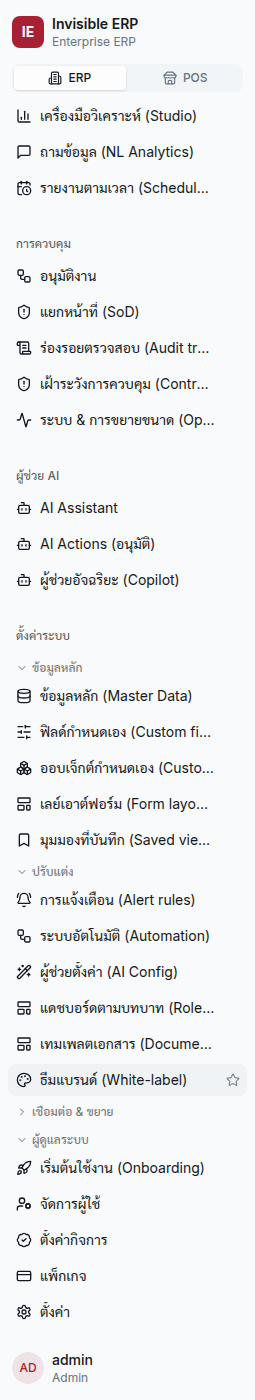
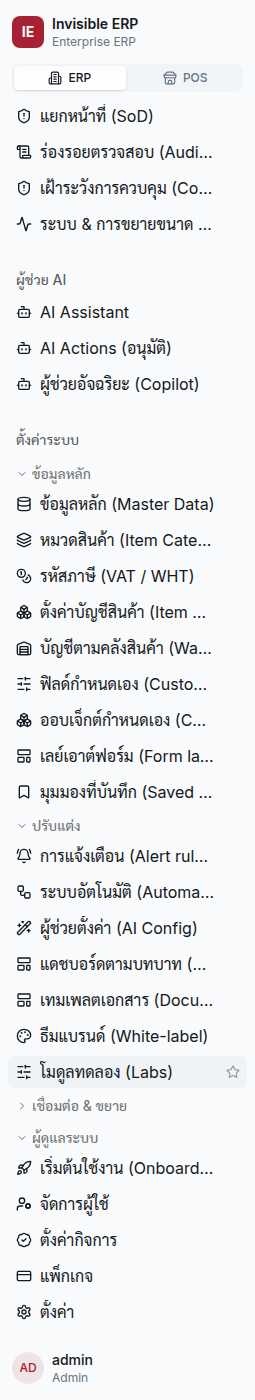
ปรับ UI หน้ารับของ: grid คอลัมน์ตรงแนว + stat chips มือถือ + เทสต์กดปุ่มจริงบนมือถือ
/receiving blind-count form: desktop gets an aligned column grid with a header
row (สั่ง/รับแล้ว/ค้างรับ/จำนวนรับจริง, right-aligned tabular numerals); the phone
layout labels every figure as a chip so nothing needs the header; fully-received
lines show a ✓ badge instead of a disabled input; count inputs are taller on
touch (h-11); the confirm button is full-width on phones with a live "นับแล้ว
n จาก m รายการ" progress hint. Summary dialog rows restructured (name+verdict /
figures / actions on separate rows — nothing competes for width) and every
dialog action is full-width on phones.

New receiving.mobile.spec.ts (iPhone 13 project): drives the entire flow with
REAL taps — Playwright actionability fails a click when another element covers
the button (the reported "ปุ่มซ้อนกันกดไม่ได้" bug class) — and asserts NO
horizontal page overflow at every stage (an overflow shifts fixed dialogs
off-screen on phones, per the /shop PR #509 lesson), plus the dialog's bounding
box stays inside the viewport. receiving-shots.capture.spec.ts added as an
on-demand screenshot tool (testIgnore'd from CI, same pattern as
sidebar.capture.spec.ts).

Presentation-only + tests — no behaviour/endpoint/control change, so no doc
impact (manual steps unchanged). Web e2e 32/32 locally (desktop + mobile);
web build + both ratchets green (use-client 253 unchanged).

Claude-Session: https://claude.ai/code/session_019hRrCJv4YTdV2WBmSd4wHm

Changed region(s): [[0.0549, 0.0614, 0.851, 0.9521], [0.9059, 0.7679, 0.9333, 0.7986]]

diff --git a/apps/web/e2e/receiving.mobile.spec.ts b/apps/web/e2e/receiving.mobile.spec.ts
@@ -1,0 +1,141 @@
+import { test, expect, type Page } from '@playwright/test';
+
+/**
+ * /receiving at PHONE viewport (iPhone 13, mobile-iphone project) — REAL-TAP regression for the
+ * blind-count receiving flow. Every interaction uses ordinary Playwright clicks, so actionability is
+ * enforced: a button covered by another element (the "ปุ่มซ้อนกันกดไม่ได้" bug class) fails the click
+ * instead of silently passing. After every stage we also assert there is NO horizontal page overflow —
+ * on mobile an overflow widens the layout viewport and shifts position:fixed surfaces (dialogs/sheets)
+ * off-screen, which is the usual root cause of "the button is there but taps don't land" (see the
+ * /shop PR #509 lesson in CLAUDE.md).
+ */
+
+const ME = { username: 'warehouse', role: 'Admin', customer_name: 'AMBER', permissions: [] };
+
+const POS = {
+  purchase_orders: [
+    { PO_No: 'PO-M-APPR', PO_Date: '2026-07-03', Supplier_Name: 'ACME Foods', Total_Amount: 460, Status: 'Approved' },
+  ],
+};
+
+const RECEIVE_LINES = {
+  po_no: 'PO-M-APPR', status: 'Approved', vendor_name: 'ACME Foods', over_receipt_weight_pct: 5, claim_window_hours: 24,
+  lines: [
+    { item_id: 'RICE', item_description: 'ข้าวหอมมะลิถุงใหญ่พิเศษตราดอกบัวคู่', uom: 'EA', order_qty: 10, received_qty: 0, remaining_qty: 10, is_weight: false, closed: false },
+    { item_id: 'BEEF', item_description: 'เนื้อวัววากิวนำเข้า', uom: 'kg', order_qty: 5, received_qty: 0, remaining_qty: 5, is_weight: true, closed: false },
+    { item_id: 'OIL', item_description: 'น้ำมันพืช', uom: 'EA', order_qty: 3, received_qty: 3, remaining_qty: 0, is_weight: false, closed: false },
+  ],
+};
+
+async function boot(page: Page) {
+  await page.addInitScript(() => { document.cookie = 'ierp_csrf=e2e; path=/'; });
+  let grBody: any = null;
+  let claimBody: any = null;
+  let closedShortPo: string | null = null;
+  await page.route('**/api/**', async (route) => {
+    const req = route.request();
+    const url = req.url();
+    const json = (body: unknown) => route.fulfill({ status: 200, contentType: 'application/json', body: JSON.stringify(body) });
+    if (url.includes('/api/auth/me')) return json(ME);
+    if (url.includes('/api/modules/effective')) return json({ modules: [], disabled: [] });
+    if (url.includes('/api/user-prefs')) return json({ favourites: [], nav: {} });
+    if (url.includes('/receive-lines')) return json(RECEIVE_LINES);
+    const mc = url.match(/\/api\/procurement\/pos\/([^/]+)\/close-short/);
+    if (mc) { closedShortPo = decodeURIComponent(mc[1]); return json({ po_no: closedShortPo, po_status: 'Closed', short_lines: [{ item_id: 'RICE', short_qty: 4 }] }); }
+    if (url.includes('/api/claims/gr') && req.method() === 'POST') {
+      claimBody = req.postDataJSON();
+      return json({ claim_no: 'GRC-M-001', status: 'Open', image_attachment_id: null });
+    }
+    if (url.includes('/api/procurement/grs') && req.method() === 'POST') {
+      grBody = req.postDataJSON();
+      return json({
+        gr_no: 'GR-M-001', po_no: grBody.po_no, po_status: 'Received', lines: grBody.items.length,
+        summary: {
+          claim_window_hours: 24, claim_deadline: new Date(Date.now() + 24 * 3600_000).toISOString(),
+          lines: [
+            { item_id: 'RICE', item_description: 'ข้าวหอมมะลิถุงใหญ่พิเศษตราดอกบัวคู่', uom: 'EA', order_qty: 10, received_now: 6, received_total: 6, shortage_qty: 4, over_qty: 0, is_weight: false },
+            { item_id: 'BEEF', item_description: 'เนื้อวัววากิวนำเข้า', uom: 'kg', order_qty: 5, received_now: 5.2, received_total: 5.2, shortage_qty: 0, over_qty: 0.2, is_weight: true },
+            { item_id: 'OIL', item_description: 'น้ำมันพืช', uom: 'EA', order_qty: 3, received_now: 0, received_total: 3, shortage_qty: 0, over_qty: 0, is_weight: false },
+          ],
+        },
+      });
+    }
+    if (url.includes('/api/procurement/grs')) return json({ grs: [], count: 0 });
+    if (url.includes('/api/inventory/purchase-orders')) return json(POS);
+    return json({});
+  });
+  (page as any).__getGrBody = () => grBody;
+  (page as any).__getClaimBody = () => claimBody;
+  (page as any).__getClosedShortPo = () => closedShortPo;
+}
+
+// The layout viewport must never exceed the visual viewport — a horizontal overflow anywhere on the page
+// shifts fixed elements and makes buttons unclickable on phones.
+async function assertNoHorizontalOverflow(page: Page, stage: string) {
+  const overflow = await page.evaluate(() => document.documentElement.scrollWidth - document.documentElement.clientWidth);
+  expect(overflow, `horizontal overflow at stage: ${stage}`).toBeLessThanOrEqual(0);
+}
+
+test('receiving (phone): blind-count flow is fully tappable — no overlap, no horizontal overflow', async ({ page }) => {
+  await boot(page);
+  await page.goto('/receiving');
+  await expect(page.locator('#gr-po')).toBeVisible();
+  await assertNoHorizontalOverflow(page, 'initial load');
+
+  // ① pick the PO (real tap on the Radix select + its option)
+  await page.locator('#gr-po').click();
+  await page.getByRole('option', { name: /PO-M-APPR/ }).click();
+  await expect(page.getByText('ข้าวหอมมะลิถุงใหญ่พิเศษตราดอกบัวคู่')).toBeVisible();
+  await assertNoHorizontalOverflow(page, 'PO lines loaded (incl. a long Thai item name)');
+
+  // ② blind count: inputs start EMPTY; the fully-received line shows ✓ instead of an input
+  const riceInput = page.getByLabel(/จำนวนรับจริง RICE/);
+  await expect(riceInput).toHaveValue('');
+  await expect(page.getByLabel(/จำนวนรับจริง OIL/)).toHaveCount(0); // done line — badge, not input
+  await riceInput.click(); // tap-to-focus must land (not covered)
+  await riceInput.fill('6');
+  const beefInput = page.getByLabel(/จำนวนรับจริง BEEF/);
+  await beefInput.click();
+  await beefInput.fill('5.2');
+  await expect(page.getByText('นับแล้ว 2 จาก 3 รายการ')).toBeVisible();
+
+  // ③ confirm — the primary button must be tappable at the bottom of the form
+  await page.getByRole('button', { name: 'ยืนยันการรับของ' }).click();
+  await expect.poll(() => (page as any).__getGrBody()).toMatchObject({ po_no: 'PO-M-APPR' });
+  const body = await (page as any).__getGrBody();
+  expect(body.items).toEqual([
+    { item_id: 'RICE', received_qty: 6, uom: 'EA' },
+    { item_id: 'BEEF', received_qty: 5.2, uom: 'kg' },
+  ]);
+
+  // ④ summary dialog renders inside the viewport (a page overflow would push the fixed dialog off-screen)
+  const dialog = page.getByRole('dialog');
+  await expect(dialog.getByText('สรุปการรับของ — GR-M-001')).toBeVisible();
+  await expect(dialog.getByText('ขาด 4')).toBeVisible();
+  await expect(dialog.getByText('เกิน 0.2')).toBeVisible();
+  await assertNoHorizontalOverflow(page, 'summary dialog open');
+  const box = await dialog.boundingBox();
+  const vw = page.viewportSize()!.width;
+  expect(box, 'dialog has a bounding box').not.toBeNull();
+  expect(box!.x, 'dialog left edge on-screen').toBeGreaterThanOrEqual(0);
+  expect(box!.x + box!.width, 'dialog right edge on-screen').toBeLessThanOrEqual(vw + 1);
+
+  // ⑤ claim from the shortage line — expand the inline form and file it (real taps throughout)
+  await dialog.getByRole('button', { name: /แจ้งเคลม/ }).first().click();
+  await dialog.getByLabel('จำนวนที่เคลม').fill('2');
+  await dialog.getByLabel(/สาเหตุ/).fill('ของช้ำเสียหาย');
+  await assertNoHorizontalOverflow(page, 'claim form expanded');
+  await dialog.getByRole('button', { name: 'เปิดเรื่องเคลม' }).click();
+  await expect.poll(() => (page as any).__getClaimBody()).toMatchObject({ gr_no: 'GR-M-001', item_id: 'RICE', claim_qty: 2 });
+  await expect(dialog.getByText('เปิดเรื่องเคลม GRC-M-001 แล้ว')).toBeVisible();
+
+  // ⑥ the shortage decision — close the PO short (destructive button must be tappable too)
+  await expect(dialog.getByText('มีของขาดส่ง')).toBeVisible();
+  await dialog.getByRole('button', { name: 'ปิด PO (ไม่รับส่วนที่ขาด)' }).click();
+  await expect.poll(() => (page as any).__getClosedShortPo()).toBe('PO-M-APPR');
+
+  // ⑦ done closes the dialog cleanly
+  await dialog.getByRole('button', { name: 'เสร็จสิ้น' }).click();
+  await expect(page.getByRole('dialog')).toHaveCount(0);
+  await assertNoHorizontalOverflow(page, 'dialog closed');
+});

diff --git a/apps/web/src/app/(internal)/receiving/page.tsx b/apps/web/src/app/(internal)/receiving/page.tsx
@@ -33,6 +33,22 @@ function isReceivable(status: string): boolean {
 // Quantities can be fractional (weight lines) — show up to 3 decimals without trailing noise.
 const fq = (x: number) => (Math.round(Number(x) * 1000) / 1000).toLocaleString('th-TH', { maximumFractionDigits: 3 });
 
+// One quantity figure with its label — a labelled chip on the phone; on sm+ the label can hide because the
+// desktop grid carries a column header instead. tabular-nums keeps the columns visually aligned.
+function QtyStat({ label, value, className = '', labelOnDesktop = false }: { label: string; value: string; className?: string; labelOnDesktop?: boolean }) {
+  // labelOnDesktop keeps the labelled-chip look at every size (summary dialog); without it the label and
+  // chip styling drop away on sm+ where the form grid's column header takes over.
+  const chip = labelOnDesktop
+    ? 'rounded-md bg-muted/60 px-2 py-1 text-center'
+    : 'rounded-md bg-muted/60 px-2 py-1 text-center sm:bg-transparent sm:px-0 sm:py-0 sm:text-right';
+  return (
+    <div className={`min-w-0 ${chip}`}>
+      <p className={`truncate text-[10px] leading-tight text-muted-foreground ${labelOnDesktop ? '' : 'sm:hidden'}`}>{label}</p>
+      <p className={`truncate text-sm font-semibold tabular-nums ${className}`}>{value}</p>
+    </div>
+  );
+}
+
 interface ReceiveLine {
   item_id: string; item_description: string | null; uom: string | null;
   order_qty: number; received_qty: number; remaining_qty: number; is_weight: boolean;
@@ -213,33 +229,48 @@ function PoReceiveForm({ pos = [], onDone }: { pos?: { PO_No: string; Supplier_N
               <Label>{t('iv.recv_lines_heading')}</Label>
               <p className="text-xs text-muted-foreground">{t('iv.recv_lines_hint')}</p>
               {allDone && <p className="text-sm text-muted-foreground">{t('iv.recv_no_outstanding')}</p>}
+              {/* column header (sm+ only) — the phone layout labels every figure inline instead */}
+              {lines.length > 0 && (
+                <div className="hidden items-center gap-x-3 px-3 text-[11px] font-medium text-muted-foreground sm:grid sm:grid-cols-[minmax(0,1fr)_repeat(3,4.5rem)_10rem]">
+                  <span />
+                  <span className="text-right">{t('iv.recv_col_ordered')}</span>
+                  <span className="text-right">{t('iv.recv_col_received')}</span>
+                  <span className="text-right">{t('iv.recv_col_remaining')}</span>
+                  <span className="text-right">{t('iv.recv_col_count')}</span>
+                </div>
+              )}
               {lines.map((l) => {
                 const err = lineErr(l);
+                const done = maxFor(l) <= 0;
                 return (
-                  <div key={l.item_id} className="rounded-md border p-3">
-                    <div className="flex flex-wrap items-center justify-between gap-2">
-                      <div className="min-w-0">
+                  <div key={l.item_id} className={`rounded-md border p-3 ${done ? 'bg-muted/40' : ''}`}>
+                    <div className="grid grid-cols-3 items-center gap-2 sm:grid-cols-[minmax(0,1fr)_repeat(3,4.5rem)_10rem] sm:gap-x-3">
+                      <div className="col-span-3 min-w-0 sm:col-span-1">
                         <p className="truncate text-sm font-medium">{l.item_description || l.item_id}</p>
-                        <p className="text-xs text-muted-foreground">
+                        <p className="truncate text-xs text-muted-foreground">
                           {l.item_id}{l.uom ? ` · ${l.uom}` : ''}
                           {l.is_weight && <span className="ml-1 text-amber-600 dark:text-amber-500">· {t('iv.recv_weight_hint', { pct: fq(weightPct) })}</span>}
                         </p>
                       </div>
-                      <div className="flex items-center gap-3 text-xs text-muted-foreground">
-                        <span>{t('iv.recv_col_ordered')} <b className="text-foreground">{fq(l.order_qty)}</b></span>
-                        <span>{t('iv.recv_col_received')} <b className="text-foreground">{fq(l.received_qty)}</b></span>
-                        <span>{t('iv.recv_col_remaining')} <b className={l.remaining_qty > 0 ? 'text-foreground' : 'text-emerald-600'}>{fq(l.remaining_qty)}</b></span>
-                      </div>
-                      <div className="w-full sm:w-40">
-                        <Input
-                          type="number" min="0" step="any" inputMode="decimal"
-                          placeholder={t('iv.recv_count_ph')}
-                          aria-label={`${t('iv.recv_col_count')} ${l.item_id}`}
-                          value={counts[l.item_id] ?? ''}
-                          aria-invalid={showErrors && !!err}
-                          disabled={maxFor(l) <= 0}
-                          onChange={(e) => setCounts((c) => ({ ...c, [l.item_id]: e.target.value }))}
-                        />
+                      <QtyStat label={t('iv.recv_col_ordered')} value={fq(l.order_qty)} />
+                      <QtyStat label={t('iv.recv_col_received')} value={fq(l.received_qty)} />
+                      <QtyStat label={t('iv.recv_col_remaining')} value={fq(l.remaining_qty)} className={l.remaining_qty > 0 ? '' : 'text-emerald-600'} />
+                      <div className="col-span-3 sm:col-span-1">
+                        {done ? (
+                          <Badge variant="outline" className="w-full justify-center border-emerald-500 py-1.5 text-emerald-600 sm:w-auto sm:justify-end sm:border-0 sm:py-0">
+                            ✓ {t('iv.recv_line_done')}
+                          </Badge>
+                        ) : (
+                          <Input
+                            type="number" min="0" step="any" inputMode="decimal"
+                            className="h-11 text-base sm:h-9 sm:text-sm sm:text-right"
+                            placeholder={t('iv.recv_count_ph')}
+                            aria-label={`${t('iv.recv_col_count')} ${l.item_id}`}
+                            value={counts[l.item_id] ?? ''}
+                            aria-invalid={showErrors && !!err}
+                            onChange={(e) => setCounts((c) => ({ ...c, [l.item_id]: e.target.value }))}
+                          />
+                        )}
                       </div>
                     </div>
                     {showErrors && err && <p className="mt-1 text-xs text-destructive" role="alert">{err}</p>}
@@ -252,10 +283,15 @@ function PoReceiveForm({ pos = [], onDone }: { pos?: { PO_No: string; Supplier_N
         </StateView>
       )}
 
-      <div className="flex flex-wrap items-center gap-2">
-        <Button disabled={mut.isPending || !poNo} onClick={submit}>
+      <div className="flex flex-col gap-2 sm:flex-row sm:items-center sm:gap-3">
+        <Button size="lg" className="w-full sm:w-auto" disabled={mut.isPending || !poNo} onClick={submit}>
           {mut.isPending ? t('proc.saving') : t('iv.recv_confirm_btn')}
         </Button>
+        {poNo && lines.length > 0 && (
+          <p className="text-center text-xs text-muted-foreground sm:text-left">
+            {t('iv.recv_entered_hint', { n: fq(entered.length), total: fq(lines.length) })}
+          </p>
+        )}
       </div>
 
       {result && <ReceiveSummaryDialog result={result} onClose={() => setResult(null)} onDone={onDone} />}
@@ -307,9 +343,9 @@ function ReceiveSummaryDialog({ result, onClose, onDone }: { result: GrResult; o
           <div className="rounded-md border border-amber-300 bg-amber-50 p-3 dark:border-amber-700 dark:bg-amber-950/40">
             <p className="flex items-center gap-1 text-sm font-medium"><TriangleAlert className="size-4 text-amber-600" /> {t('iv.recv_short_title')}</p>
             <p className="mt-1 text-xs text-muted-foreground">{t('iv.recv_short_desc')}</p>
-            <div className="mt-2 flex flex-wrap gap-2">
-              <Button size="sm" variant="secondary" onClick={onClose}>{t('iv.recv_keep_open')}</Button>
-              <Button size="sm" variant="destructive" disabled={closeShort.isPending} onClick={() => closeShort.mutate()}>
+            <div className="mt-2 flex flex-col gap-2 sm:flex-row">
+              <Button size="sm" variant="secondary" className="w-full sm:w-auto" onClick={onClose}>{t('iv.recv_keep_open')}</Button>
+              <Button size="sm" variant="destructive" className="w-full sm:w-auto" disabled={closeShort.isPending} onClick={() => closeShort.mutate()}>
                 {closeShort.isPending ? t('proc.saving') : t('iv.recv_close_po')}
               </Button>
             </div>
@@ -317,7 +353,7 @@ function ReceiveSummaryDialog({ result, onClose, onDone }: { result: GrResult; o
         )}
 
         <DialogFooter>
-          <Button onClick={onClose}>{t('iv.recv_done')}</Button>
+          <Button className="w-full sm:w-auto" onClick={onClose}>{t('iv.recv_done')}</Button>
         </DialogFooter>
       </DialogContent>
     </Dialog>
@@ -328,29 +364,33 @@ function SummaryLineRow({ line, grNo, poNo }: { line: SummaryLine; grNo: string;
   const { t } = useLang();
   const [claiming, setClaiming] = useState(false);
   const [claimedNo, setClaimedNo] = useState<string | null>(null);
+  const statusBadge = line.shortage_qty > 0 ? (
+    <Badge variant="destructive">{t('iv.recv_sum_short', { n: fq(line.shortage_qty) })}</Badge>
+  ) : line.over_qty > 0 ? (
+    <Badge variant="outline" className="border-amber-500 text-amber-600">{t('iv.recv_sum_over', { n: fq(line.over_qty) })}</Badge>
+  ) : (
+    <Badge variant="outline" className="border-emerald-500 text-emerald-600">✓ {t('iv.recv_sum_complete')}</Badge>
+  );
   return (
     <div className="rounded-md border p-3">
-      <div className="flex flex-wrap items-center justify-between gap-2">
+      {/* name + verdict on their own row, figures on the next, actions last — nothing competes for width */}
+      <div className="flex items-start justify-between gap-2">
         <div className="min-w-0">
           <p className="truncate text-sm font-medium">{line.item_description || line.item_id}</p>
-          <p className="text-xs text-muted-foreground">{line.item_id}{line.uom ? ` · ${line.uom}` : ''}</p>
+          <p className="truncate text-xs text-muted-foreground">{line.item_id}{line.uom ? ` · ${line.uom}` : ''}</p>
         </div>
-        <div className="flex items-center gap-3 text-xs text-muted-foreground">
-          <span>{t('iv.recv_col_ordered')} <b className="text-foreground">{fq(line.order_qty)}</b></span>
-          <span>{t('iv.recv_sum_received_now')} <b className="text-foreground">{fq(line.received_now)}</b></span>
-          <span>{t('iv.recv_sum_total')} <b className="text-foreground">{fq(line.received_total)}</b></span>
-          {line.shortage_qty > 0 ? (
-            <Badge variant="destructive">{t('iv.recv_sum_short', { n: fq(line.shortage_qty) })}</Badge>
-          ) : line.over_qty > 0 ? (
-            <Badge variant="outline" className="border-amber-500 text-amber-600">{t('iv.recv_sum_over', { n: fq(line.over_qty) })}</Badge>
-          ) : (
-            <Badge variant="outline" className="border-emerald-500 text-emerald-600">{t('iv.recv_sum_complete')}</Badge>
-          )}
-        </div>
+        <div className="shrink-0">{statusBadge}</div>
+      </div>
+      <div className="mt-2 grid grid-cols-3 gap-2 sm:max-w-sm">
+        <QtyStat label={t('iv.recv_col_ordered')} value={fq(line.order_qty)} labelOnDesktop />
+        <QtyStat label={t('iv.recv_sum_received_now')} value={fq(line.received_now)} labelOnDesktop />
+        <QtyStat label={t('iv.recv_sum_total')} value={fq(line.received_total)} labelOnDesktop />
+      </div>
+      <div className="mt-2">
         {claimedNo ? (
           <Badge variant="secondary">{t('iv.recv_claim_created', { no: claimedNo })}</Badge>
         ) : (
-          <Button size="sm" variant={claiming ? 'secondary' : 'outline'} onClick={() => setClaiming((v) => !v)}>
+          <Button size="sm" variant={claiming ? 'secondary' : 'outline'} className="w-full sm:w-auto" onClick={() => setClaiming((v) => !v)}>
             <Camera className="size-4" /> {t('iv.recv_claim_btn')}
           </Button>
         )}

diff --git a/apps/web/e2e/receiving-shots.capture.spec.ts b/apps/web/e2e/receiving-shots.capture.spec.ts
@@ -1,0 +1,60 @@
+import { test, type Page } from '@playwright/test';
+
+const OUT = '/tmp/claude-0/-home-user-invisibleERP/7c113168-9110-554f-a417-fde17c1dfc5e/scratchpad';
+const ME = { username: 'warehouse', role: 'Admin', customer_name: 'AMBER', permissions: [] };
+const POS = { purchase_orders: [{ PO_No: 'PO-M-APPR', PO_Date: '2026-07-03', Supplier_Name: 'ACME Foods', Total_Amount: 460, Status: 'Approved' }] };
+const RECEIVE_LINES = {
+  po_no: 'PO-M-APPR', status: 'Approved', vendor_name: 'ACME Foods', over_receipt_weight_pct: 5, claim_window_hours: 24,
+  lines: [
+    { item_id: 'RICE', item_description: 'ข้าวหอมมะลิถุงใหญ่', uom: 'EA', order_qty: 10, received_qty: 0, remaining_qty: 10, is_weight: false, closed: false },
+    { item_id: 'BEEF', item_description: 'เนื้อวัววากิวนำเข้า', uom: 'kg', order_qty: 5, received_qty: 0, remaining_qty: 5, is_weight: true, closed: false },
+    { item_id: 'OIL', item_description: 'น้ำมันพืช', uom: 'EA', order_qty: 3, received_qty: 3, remaining_qty: 0, is_weight: false, closed: false },
+  ],
+};
+async function boot(page: Page) {
+  await page.addInitScript(() => { document.cookie = 'ierp_csrf=e2e; path=/'; });
+  await page.route('**/api/**', async (route) => {
+    const req = route.request(); const url = req.url();
+    const json = (b: unknown) => route.fulfill({ status: 200, contentType: 'application/json', body: JSON.stringify(b) });
+    if (url.includes('/api/auth/me')) return json(ME);
+    if (url.includes('/api/modules/effective')) return json({ modules: [], disabled: [] });
+    if (url.includes('/api/user-prefs')) return json({ favourites: [], nav: {} });
+    if (url.includes('/receive-lines')) return json(RECEIVE_LINES);
+    if (url.includes('/api/procurement/grs') && req.method() === 'POST') {
+      return json({ gr_no: 'GR-M-001', po_no: 'PO-M-APPR', po_status: 'Received', lines: 2, summary: { claim_window_hours: 24, claim_deadline: new Date(Date.now() + 86400000).toISOString(), lines: [
+        { item_id: 'RICE', item_description: 'ข้าวหอมมะลิถุงใหญ่', uom: 'EA', order_qty: 10, received_now: 6, received_total: 6, shortage_qty: 4, over_qty: 0, is_weight: false },
+        { item_id: 'BEEF', item_description: 'เนื้อวัววากิวนำเข้า', uom: 'kg', order_qty: 5, received_now: 5.2, received_total: 5.2, shortage_qty: 0, over_qty: 0.2, is_weight: true },
+        { item_id: 'OIL', item_description: 'น้ำมันพืช', uom: 'EA', order_qty: 3, received_now: 0, received_total: 3, shortage_qty: 0, over_qty: 0, is_weight: false },
+      ] } });
+    }
+    if (url.includes('/api/procurement/grs')) return json({ grs: [], count: 0 });
+    if (url.includes('/api/inventory/purchase-orders')) return json(POS);
+    return json({});
+  });
+}
+async function drive(page: Page, tag: string) {
+  await page.goto('/receiving');
+  const po = page.locator('#gr-po');
+  await po.waitFor({ state: 'visible' });
+  // hydration guard: retry the open until the option list actually mounts
+  await test.step('open PO select', async () => {
+    for (let i = 0; i < 5; i++) {
+      await po.click();
+      try { await page.getByRole('option').first().waitFor({ timeout: 2000 }); return; } catch { /* retry */ }
+    }
+    throw new Error('PO select never opened');
+  });
+  await page.getByRole('option').first().click();
+  await page.getByText('ข้าวหอมมะลิถุงใหญ่').waitFor();
+  await page.getByLabel(/จำนวนรับจริง RICE/).fill('6');
+  await page.getByLabel(/จำนวนรับจริง BEEF/).fill('5.2');
+  await page.screenshot({ path: `${OUT}/receiving-form-${tag}.png`, fullPage: false });
+  await page.getByRole('button', { name: 'ยืนยันการรับของ' }).click();
+  await page.getByText('สรุปการรับของ — GR-M-001').waitFor();
+  await page.getByRole('button', { name: /แจ้งเคลม/ }).first().click();
+  await page.screenshot({ path: `${OUT}/receiving-summary-${tag}.png`, fullPage: false });
+}
+test('capture phone + desktop', async ({ page }) => {
+  await boot(page);
+  await drive(page, page.viewportSize()!.width < 500 ? 'phone' : 'desktop');
+});

diff --git a/apps/web/src/lib/i18n-catalog/invops.ts b/apps/web/src/lib/i18n-catalog/invops.ts
@@ -344,6 +344,8 @@ export const CATALOG: Record<string, Partial<Record<Lang, string>>> = {
   'iv.recv_err_over': { th: 'รับเกินจำนวนที่สั่งไม่ได้ (สูงสุด {max})', en: 'Cannot receive more than ordered (max {max})' },
   'iv.recv_weight_hint': { th: 'สินค้าชั่งน้ำหนัก — รับเกินได้ไม่เกิน {pct}%', en: 'Weight-based item — up to {pct}% over is allowed' },
   'iv.recv_err_none': { th: 'กรอกจำนวนรับจริงอย่างน้อย 1 รายการ', en: 'Enter a received quantity for at least one line' },
+  'iv.recv_entered_hint': { th: 'นับแล้ว {n} จาก {total} รายการ', en: 'Counted {n} of {total} lines' },
+  'iv.recv_line_done': { th: 'รับครบแล้ว', en: 'Fully received' },
   'iv.recv_no_outstanding': { th: 'ใบสั่งซื้อนี้รับครบทุกรายการแล้ว', en: 'Every line on this PO is fully received' },
   'iv.recv_confirm_btn': { th: 'ยืนยันการรับของ', en: 'Confirm receipt' },
   'iv.recv_sum_title': { th: 'สรุปการรับของ — {gr}', en: 'Receiving summary — {gr}' },